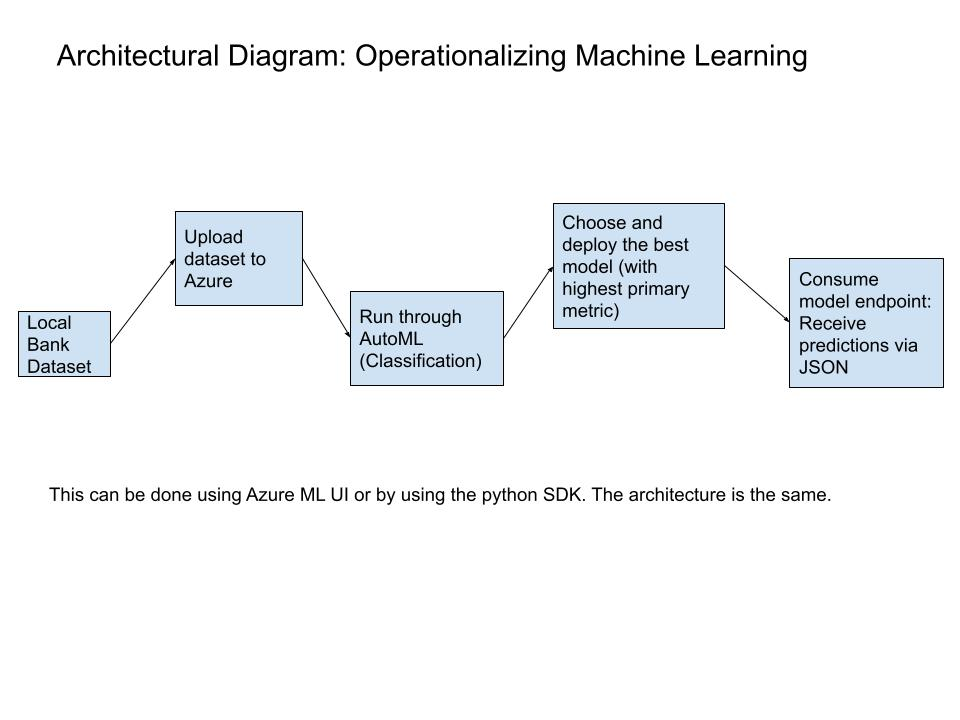
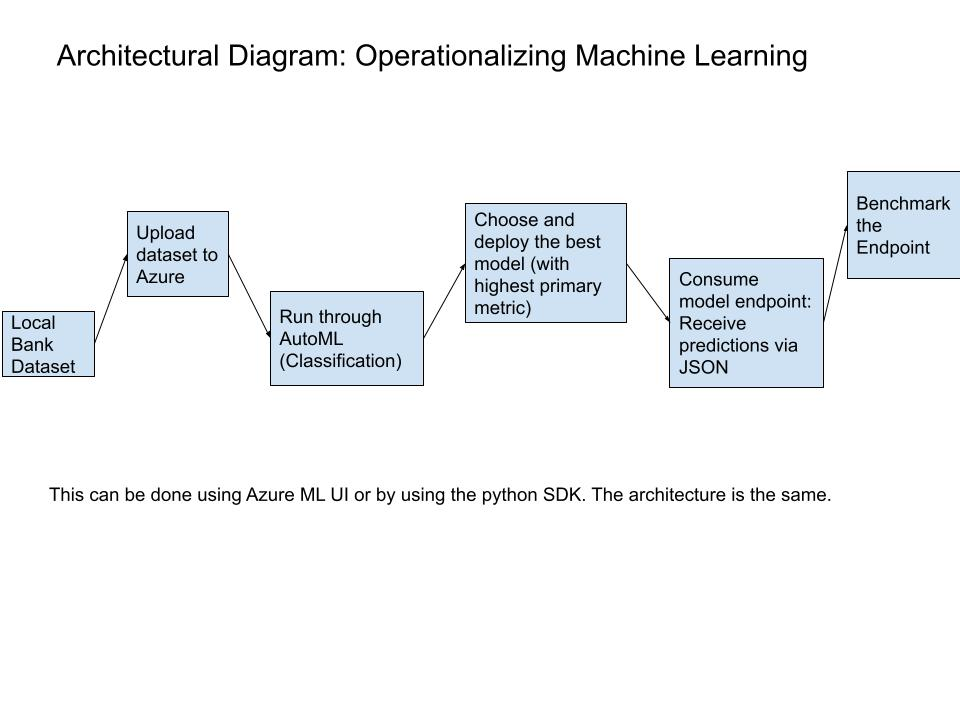
Added screenshots

Changed region(s): [[0.125, 0.2139, 1.0, 0.55], [0.0, 0.4278, 0.125, 0.5194]]

diff --git a/Project_Two/README.md b/Project_Two/README.md
@@ -10,41 +10,41 @@ In this project, I learned how to deploy many of the parts of a machine learning
 ## Key Steps
 *TODO*: Write a short discription of the key steps. Remeber to include all the screenshots required to demonstrate key steps. 
 
-
-
-![alt text](https://github.com/connorgag/Udacity_MLE/blob/main/Project_Two/Screenshots/endpoint_output.png?raw=true)
-![alt text](https://github.com/connorgag/Udacity_MLE/blob/main/Project_Two/Screenshots/Scheduled_Run_Screenshot.png?raw=true)
-![alt text](https://github.com/connorgag/Udacity_MLE/blob/main/Project_Two/Screenshots/Completed_Pipeline_Screenshot.png?raw=true)
-![alt text](https://github.com/connorgag/Udacity_MLE/blob/main/Project_Two/Screenshots/RunDetails_Screenshot.png?raw=true)
-![alt text](https://github.com/connorgag/Udacity_MLE/blob/main/Project_Two/Screenshots/Published_Pipeline_Overview_Screenshot.png?raw=true)
-![alt text](https://github.com/connorgag/Udacity_MLE/blob/main/Project_Two/Screenshots/Bank_and_AutoML_Screenshot.png?raw=true)
-![alt text](https://github.com/connorgag/Udacity_MLE/blob/main/Project_Two/Screenshots/Pipeline_Section_Screenshot.png?raw=true)
-![alt text](https://github.com/connorgag/Udacity_MLE/blob/main/Project_Two/Screenshots/Benchmark_Screenshot_2.png?raw=true)
-![alt text](https://github.com/connorgag/Udacity_MLE/blob/main/Project_Two/Screenshots/Benchmark_Screenshot_1.png?raw=true)
-![alt text](https://github.com/connorgag/Udacity_MLE/blob/main/Project_Two/Screenshots/Swagger_Screenshot_2.png?raw=true)
-![alt text](https://github.com/connorgag/Udacity_MLE/blob/main/Project_Two/Screenshots/Swagger_Screenshot.png?raw=true)
-![alt text](https://github.com/connorgag/Udacity_MLE/blob/main/Project_Two/Screenshots/App_Insights_Screenshot.png?raw=true)
-![alt text](https://github.com/connorgag/Udacity_MLE/blob/main/Project_Two/Screenshots/logs_py_output_screenshot.png?raw=true)
-![alt text](https://github.com/connorgag/Udacity_MLE/blob/main/Project_Two/Screenshots/Best_Model_Screenshot.png?raw=true)
-![alt text](https://github.com/connorgag/Udacity_MLE/blob/main/Project_Two/Screenshots/Completed_Screenshot.png?raw=true)
+1. Upload Bank Marketing dataset
 ![alt text](https://github.com/connorgag/Udacity_MLE/blob/main/Project_Two/Screenshots/bank_dataset_screenshot.png?raw=true)
 
-/Users/connorgag/Desktop/Udacity_MLE_Github_Repo/Project_Two/Screenshots/endpoint_output.png
-/Users/connorgag/Desktop/Udacity_MLE_Github_Repo/Project_Two/Screenshots/Scheduled_Run_Screenshot.png
-/Users/connorgag/Desktop/Udacity_MLE_Github_Repo/Project_Two/Screenshots/Completed_Pipeline_Screenshot.png
-/Users/connorgag/Desktop/Udacity_MLE_Github_Repo/Project_Two/Screenshots/RunDetails_Screenshot.png
-/Users/connorgag/Desktop/Udacity_MLE_Github_Repo/Project_Two/Screenshots/Published_Pipeline_Overview_Screenshot.png
-/Users/connorgag/Desktop/Udacity_MLE_Github_Repo/Project_Two/Screenshots/Bank_and_AutoML_Screenshot.png
-/Users/connorgag/Desktop/Udacity_MLE_Github_Repo/Project_Two/Screenshots/Pipeline_Section_Screenshot.png
-/Users/connorgag/Desktop/Udacity_MLE_Github_Repo/Project_Two/Screenshots/Benchmark_Screenshot_2.png
-/Users/connorgag/Desktop/Udacity_MLE_Github_Repo/Project_Two/Screenshots/Benchmark_Screenshot_1.png
-/Users/connorgag/Desktop/Udacity_MLE_Github_Repo/Project_Two/Screenshots/Swagger_Screenshot_2.png
-/Users/connorgag/Desktop/Udacity_MLE_Github_Repo/Project_Two/Screenshots/Swagger_Screenshot.png
-/Users/connorgag/Desktop/Udacity_MLE_Github_Repo/Project_Two/Screenshots/App_Insights_Screenshot.png
-/Users/connorgag/Desktop/Udacity_MLE_Github_Repo/Project_Two/Screenshots/logs_py_output_screenshot.png
-/Users/connorgag/Desktop/Udacity_MLE_Github_Repo/Project_Two/Screenshots/Best_Model_Screenshot.png
-/Users/connorgag/Desktop/Udacity_MLE_Github_Repo/Project_Two/Screenshots/Completed_Screenshot.png
-/Users/connorgag/Desktop/Udacity_MLE_Github_Repo/Project_Two/Screenshots/bank_dataset_screenshot.png
+2. Run the dataset through AutoML
+![alt text](https://github.com/connorgag/Udacity_MLE/blob/main/Project_Two/Screenshots/Completed_Screenshot.png?raw=true)
+![alt text](https://github.com/connorgag/Udacity_MLE/blob/main/Project_Two/Screenshots/Bank_and_AutoML_Screenshot.png?raw=true)
+
+3. Choose the best option
+![alt text](https://github.com/connorgag/Udacity_MLE/blob/main/Project_Two/Screenshots/Best_Model_Screenshot.png?raw=true)
+
+4. Enable application insights
+![alt text](https://github.com/connorgag/Udacity_MLE/blob/main/Project_Two/Screenshots/logs_py_output_screenshot.png?raw=true)
+![alt text](https://github.com/connorgag/Udacity_MLE/blob/main/Project_Two/Screenshots/App_Insights_Screenshot.png?raw=true)
+
+5. Understand API Endpoint using Swagger
+![alt text](https://github.com/connorgag/Udacity_MLE/blob/main/Project_Two/Screenshots/Swagger_Screenshot.png?raw=true)
+![alt text](https://github.com/connorgag/Udacity_MLE/blob/main/Project_Two/Screenshots/Swagger_Screenshot_2.png?raw=true)
+
+6. Set Benchmarks 
+![alt text](https://github.com/connorgag/Udacity_MLE/blob/main/Project_Two/Screenshots/Benchmark_Screenshot_1.png?raw=true)
+![alt text](https://github.com/connorgag/Udacity_MLE/blob/main/Project_Two/Screenshots/Benchmark_Screenshot_2.png?raw=true)
+
+7. Create Pipeline
+![alt text](https://github.com/connorgag/Udacity_MLE/blob/main/Project_Two/Screenshots/RunDetails_Screenshot.png?raw=true)
+![alt text](https://github.com/connorgag/Udacity_MLE/blob/main/Project_Two/Screenshots/Pipeline_Section_Screenshot.png?raw=true)
+![alt text](https://github.com/connorgag/Udacity_MLE/blob/main/Project_Two/Screenshots/Completed_Pipeline_Screenshot.png?raw=true)
+![alt text](https://github.com/connorgag/Udacity_MLE/blob/main/Project_Two/Screenshots/Published_Pipeline_Overview_Screenshot.png?raw=true)
+
+8. Schedule the Run
+![alt text](https://github.com/connorgag/Udacity_MLE/blob/main/Project_Two/Screenshots/Scheduled_Run_Screenshot.png?raw=true)
+
+9. Consume Endpoints
+![alt text](https://github.com/connorgag/Udacity_MLE/blob/main/Project_Two/Screenshots/endpoint_output.png?raw=true)
+
+
 
 
 ## Screen Recording
